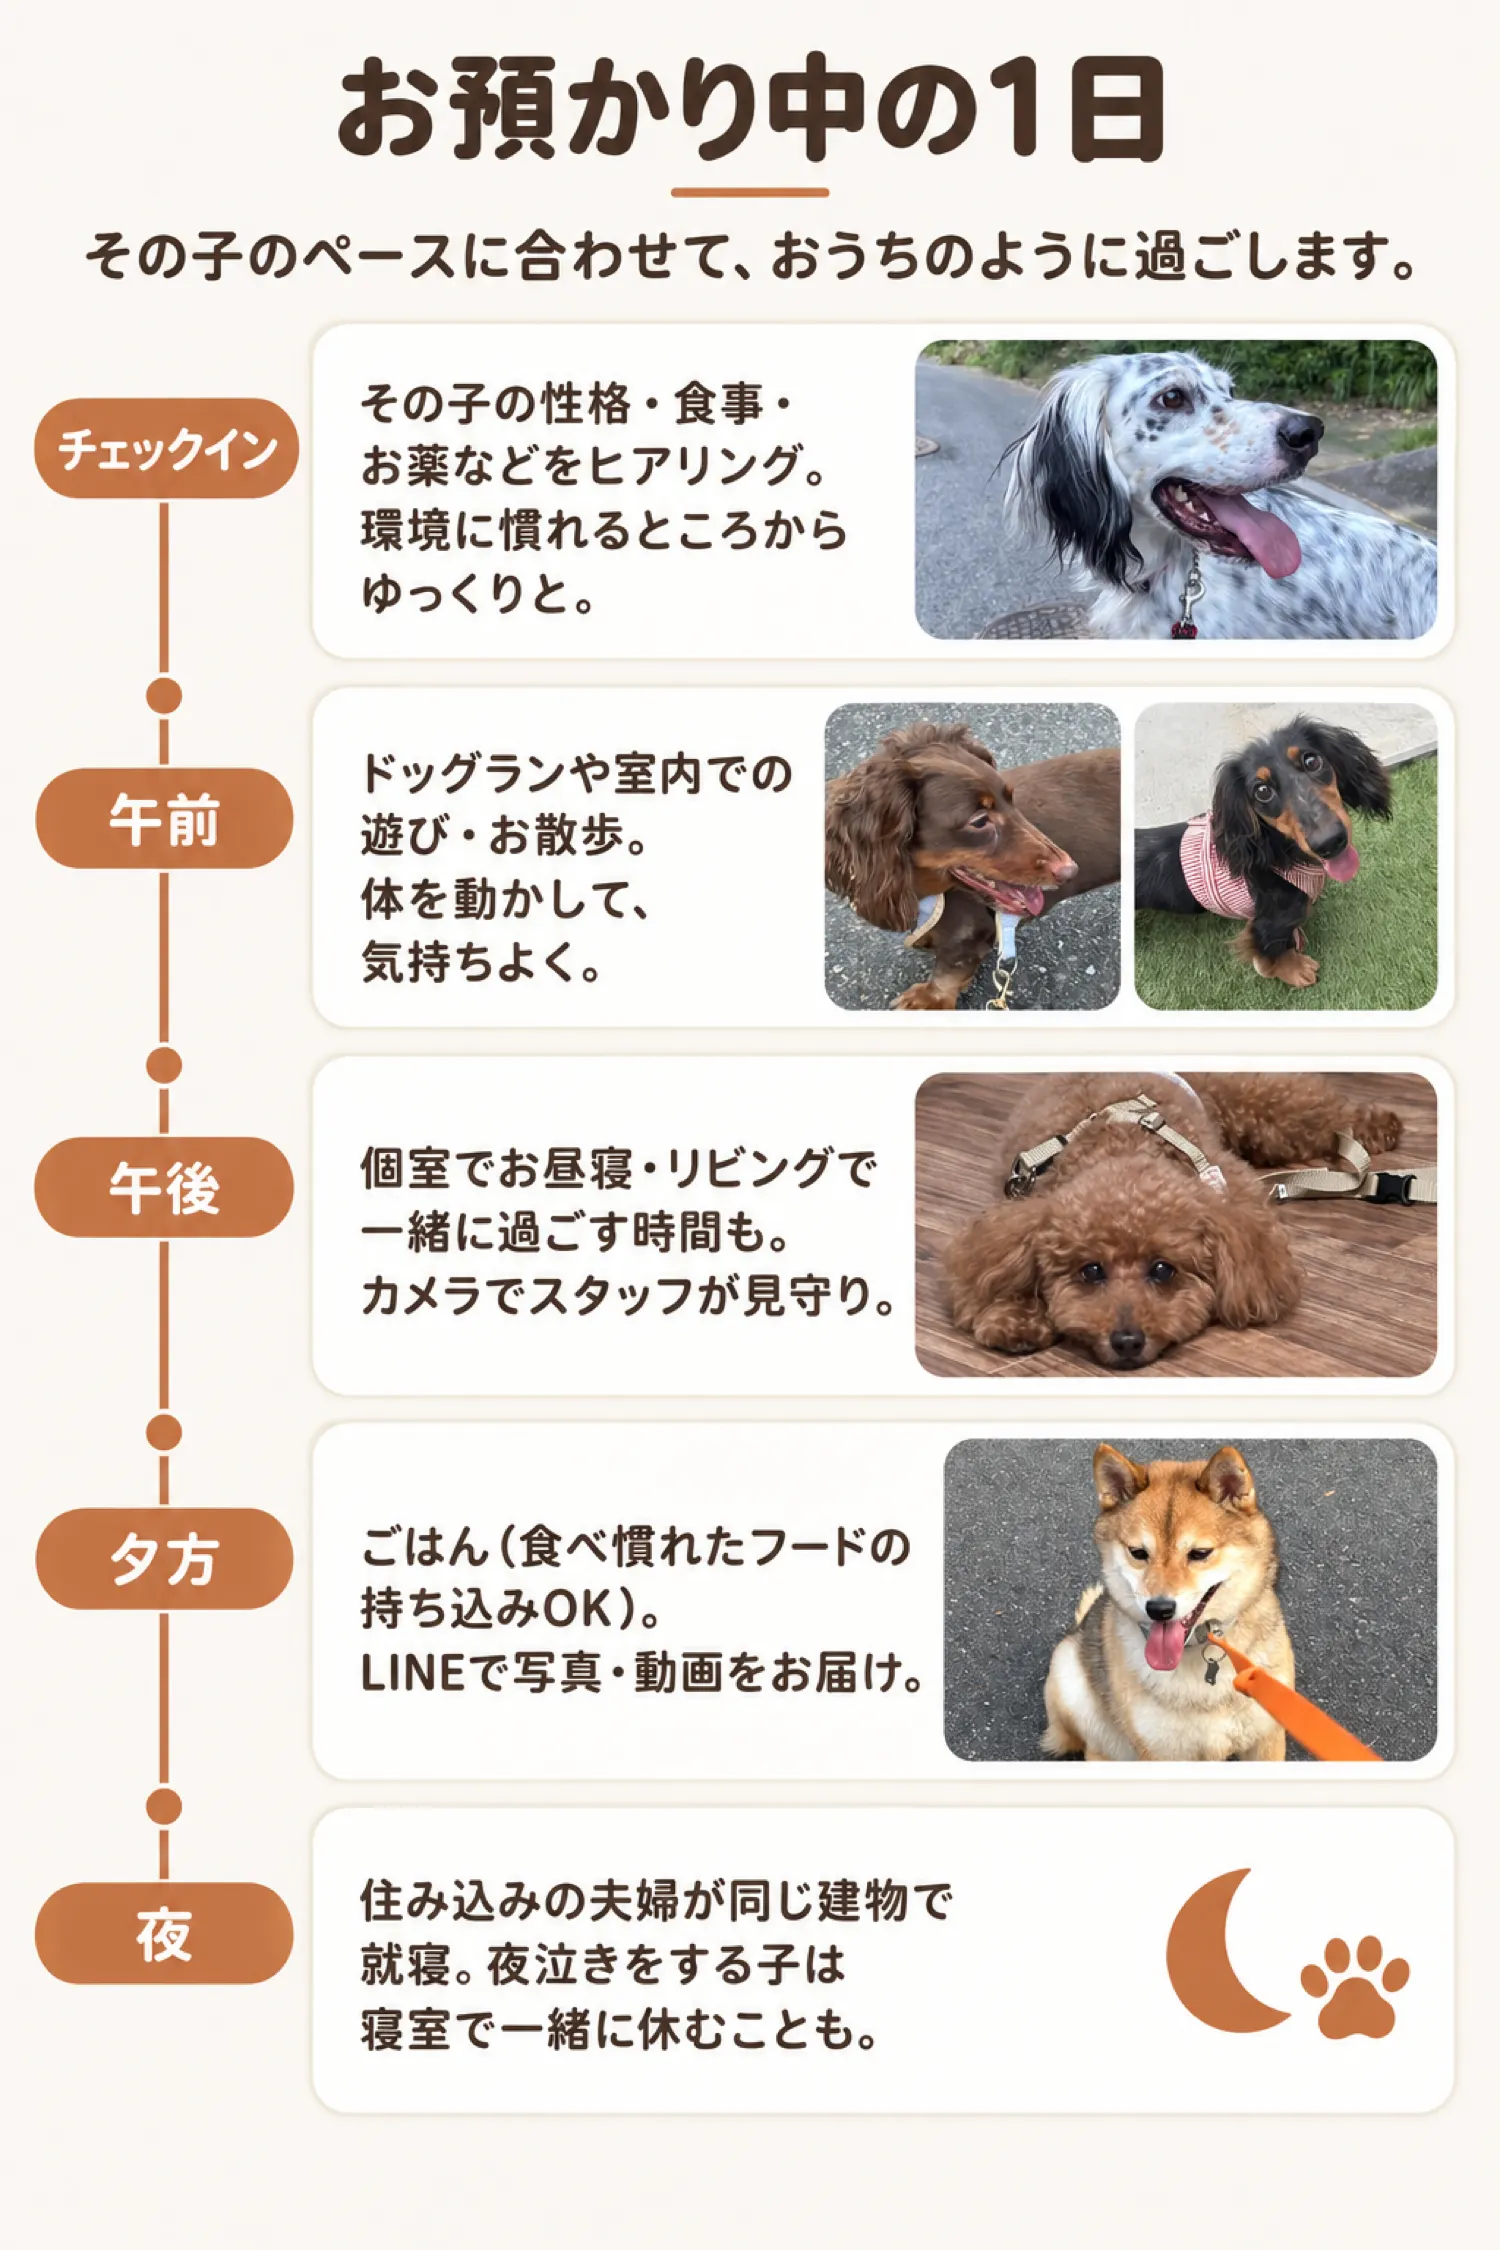
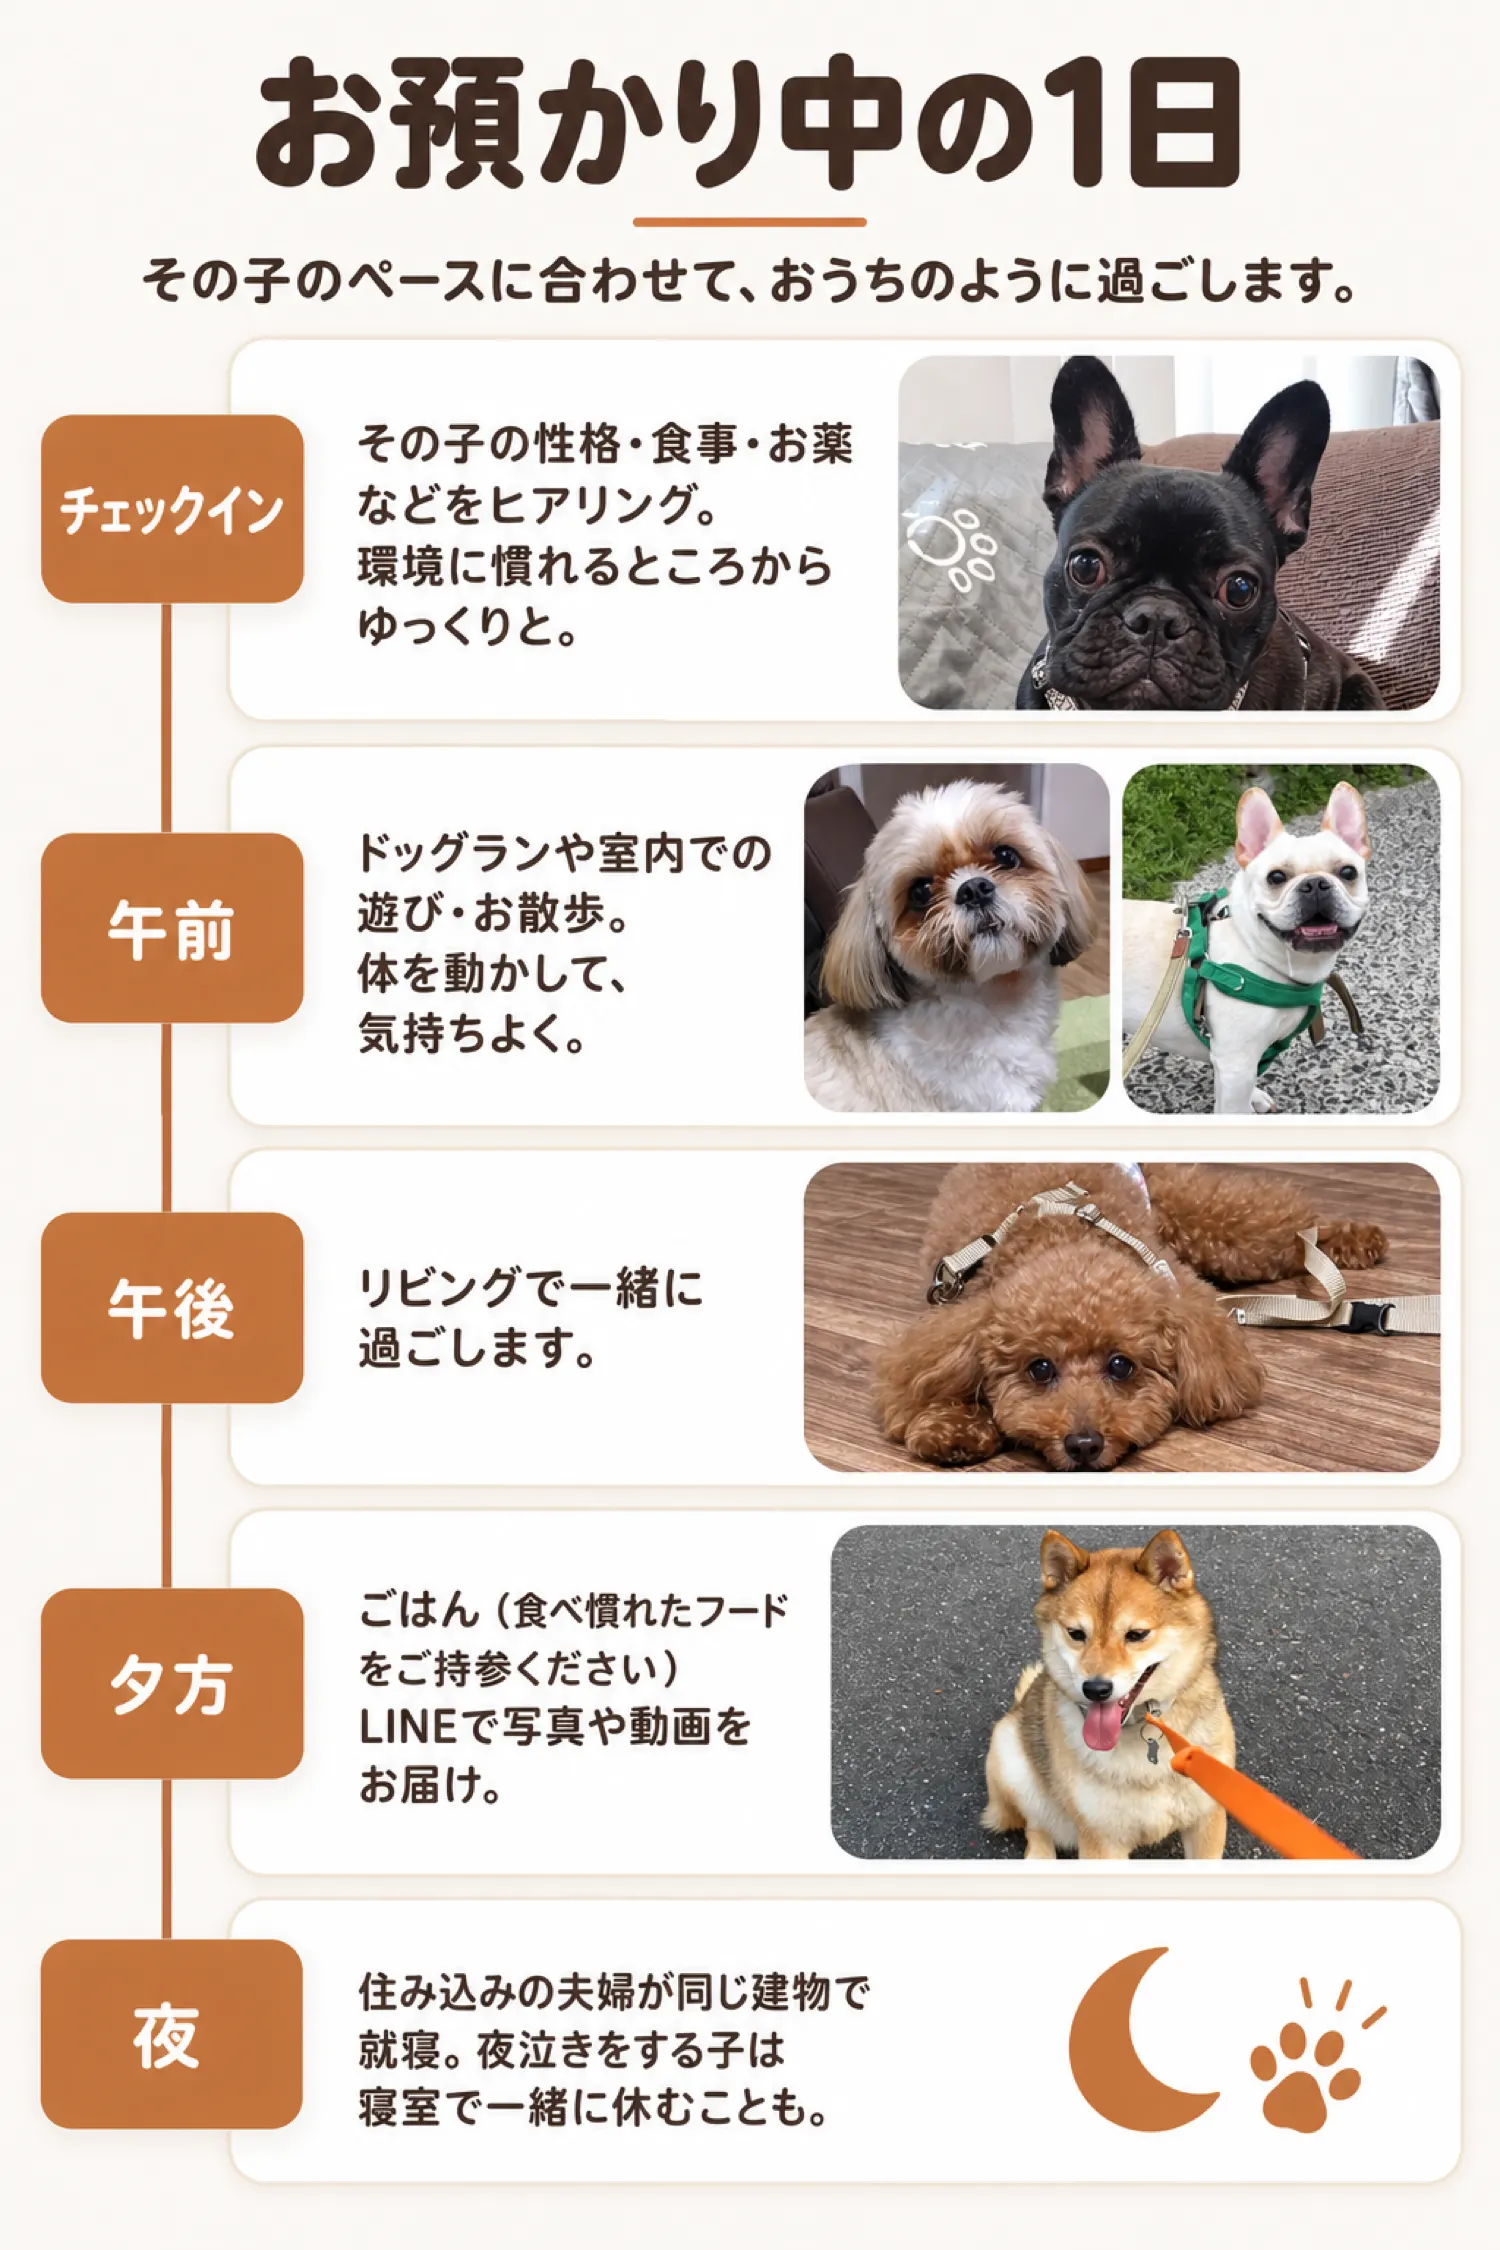
update

diff --git a/index.html b/index.html
@@ -103,8 +103,8 @@
 
       <!-- ▼⑦ お預かり中の1日 -->
       <section class="slice">
-        <img src="img/07-day.webp?v=1" width="1500" height="2250" loading="lazy"
-             alt="お預かり中の1日。その子のペースに合わせて、おうちのように過ごします。チェックイン：性格・食事・お薬などをヒアリング。午前：ドッグランや室内での遊び・お散歩。午後：個室でお昼寝・リビングで一緒に過ごす時間も。夕方：ごはん（食べ慣れたフードの持ち込みOK）、LINEで写真・動画をお届け。夜：住み込みの夫婦が同じ建物で就寝。夜泣きをする子は寝室で一緒に休むことも">
+        <img src="img/07-day.webp?v=2" width="1500" height="2250" loading="lazy"
+             alt="お預かり中の1日。その子のペースに合わせて、おうちのように過ごします。チェックイン：性格・食事・お薬などをヒアリング。午前：ドッグランや室内での遊び・お散歩。午後：リビングで一緒に過ごします。夕方：ごはん（食べ慣れたフードをご持参ください）LINEで写真や動画をお届け。夜：住み込みの夫婦が同じ建物で就寝。夜泣きをする子は寝室で一緒に休むことも">
       </section>
 
       <!-- ▼⑧ ねこちゃんのお預かり -->
